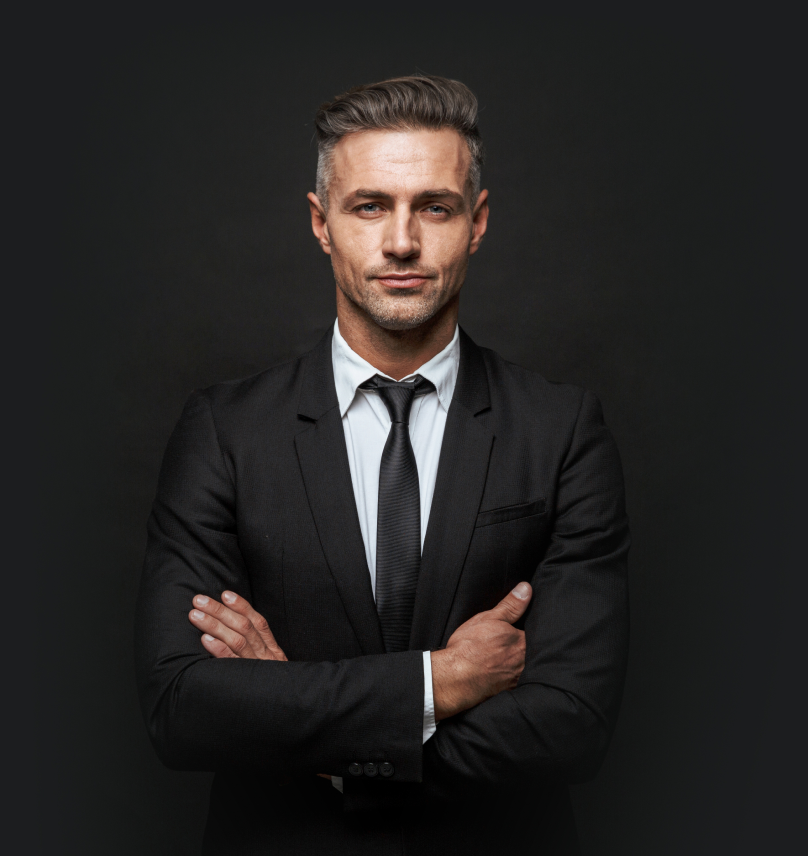
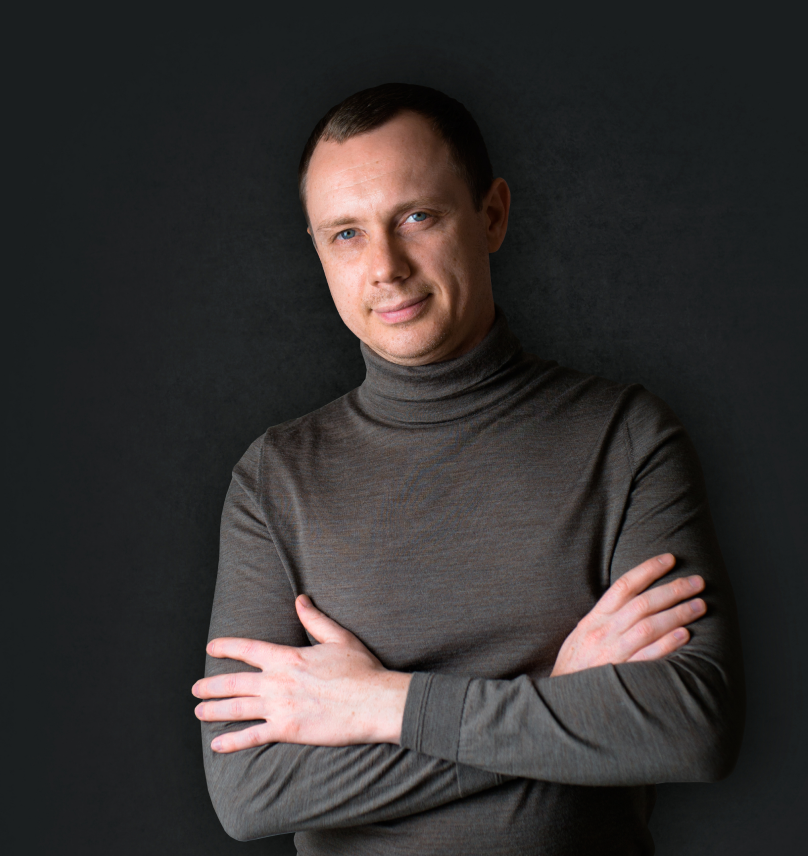
заменил фото и описание директора на главной, добавил кнопку подробнее

diff --git a/css/style.css b/css/style.css
@@ -1014,6 +1014,9 @@ input[type=radio].visually-hidden {
   line-height: 1;
   color: #00f0c0;
 }
+.personal-card__details {
+  margin-bottom: 32px;
+}
 @media (max-width: 1440px) {
   .personal-card__grid {
     grid-template-columns: 1fr 1fr;

diff --git a/css/sections/_personal-card.scss b/css/sections/_personal-card.scss
@@ -57,6 +57,9 @@
       }
     }
   }
+  &__details {
+    margin-bottom: 32px;
+  }
 
   @media (max-width: 1440px) {
     &__grid {

diff --git a/components/personal-card.php b/components/personal-card.php
@@ -10,7 +10,13 @@
           покупателем на фондовой, товарной, валютной биржах</p>
         <div class="personal-card__details">
           <ul class="personal-card__list">
-            <li>Родился 25.10.1986 г.Радужный ХМАО Тюменской область.</li>
+            <li>Опыт с 2006-по текущий момент.Прошел 4 кризиза 2008/2014/2020/2022 и ещё в деле!</li>
+            <li>Получение знаний, работая в крупных инвестиционных компаниях (Финам/Атон/Открытие)</li>
+            <li>Разработал свой собственный стиль работы и подходы к инвестированию.</li>
+            <li>Результаты за 2022 год общий итог.</li>
+            <li>Результаты отдельных сделок.</li>
+            <li>Запуск проекта публичного ведения портфеля и собственных торговых идей.</li>
+            <!-- <li>Родился 25.10.1986 г.Радужный ХМАО Тюменской область.</li>
             <li>Закончил среднеобразовательную школу №2 г.Радужный.</li>
             <li>В 2004 году поступил в КУБГУ на факультет прикладной математике, специализация информатика в
               экономике.</li>
@@ -19,9 +25,15 @@
             <li>В 2008 году начал карьеру в компании "Финам".</li>
             <li>2009-2013 работа в компаний "Атон".</li>
             <li>2013-2015 работа над проектами gorkunov-invest.ru и горкунов.рф</li>
-            <li>2015 запуск проектов gorkunov-invest.ru и горкунов.рф, работа в компании "Открытие Брокер"</li>
+            <li>2015 запуск проектов gorkunov-invest.ru и горкунов.рф, работа в компании "Открытие Брокер"</li> -->
           </ul>
         </div>
+        <a class="button button--icon" href="#">
+            <span>подробнее</span>
+            <svg width="10" height="10" viewBox="0 0 10 10" fill="none" xmlns="http://www.w3.org/2000/svg">
+              <path d="M4.5 9L8.5 5M8.5 5L4.5 1M8.5 5L0.5 5" stroke="#1B1E1E" stroke-width="2"></path>
+            </svg>
+          </a>
       </div>
     </div>
 
